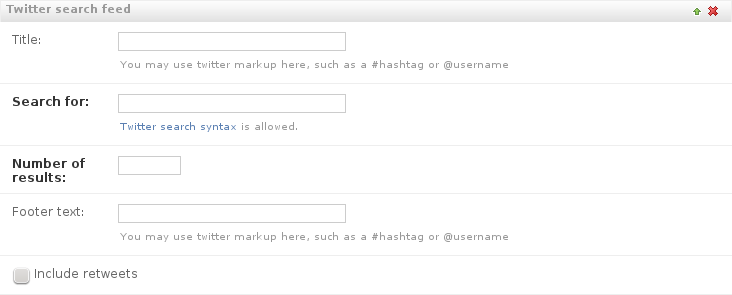
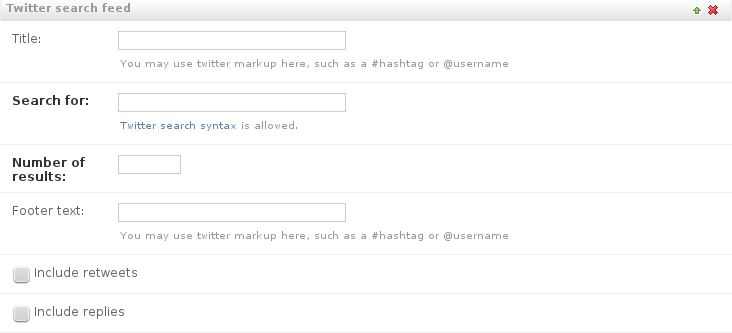
Twitterfeed: add "include replies" checkbox.

diff --git a/fluent_contents/plugins/twitterfeed/templates/plugins/twitterfeed/recent_entries.html b/fluent_contents/plugins/twitterfeed/templates/plugins/twitterfeed/recent_entries.html
@@ -2,6 +2,7 @@
 
 {% block jsoptions %}
       username: '{{ instance.twitter_user }}',
-      {% if not instance.include_retweets %}retweets: false,
-      fetch: Math.max(10, {{ instance.amount }} * 2),{% endif %}
+      {% if not instance.include_retweets %}retweets: false,{% endif %}
+      {% if not instance.include_replies %}filter: function(t){ return t.tweet_raw_text.substring(0,1) != '@'; },{% endif %}
+      {% if not instance.include_retweets or not include_replies %}fetch: Math.max(20, {{ instance.amount }} * 4),{% endif %}
 {% endblock %}

diff --git a/fluent_contents/plugins/twitterfeed/templates/plugins/twitterfeed/search.html b/fluent_contents/plugins/twitterfeed/templates/plugins/twitterfeed/search.html
@@ -2,4 +2,6 @@
 
 {% block jsoptions %}
       query: '{{ instance.query }}{% if not instance.include_retweets %}+exclude:retweets{% endif %}',
+      {% if not instance.include_replies %}filter: function(t){ return t.tweet_raw_text.substring(0,1) != '@'; },{% endif %}
+      {% if not instance.include_retweets or not include_replies %}fetch: Math.max(20, {{ instance.amount }} * 4),{% endif %}
 {% endblock %}

diff --git a/fluent_contents/plugins/twitterfeed/models.py b/fluent_contents/plugins/twitterfeed/models.py
@@ -14,6 +14,7 @@ class TwitterRecentEntriesItem(ContentItem):
 
     footer_text = models.CharField(_('Footer text'), max_length=200, blank=True, help_text=_('You may use twitter markup here, such as a #hashtag or @username.'))
     include_retweets = models.BooleanField(_("Include retweets"))
+    include_replies = models.BooleanField(_("Include replies"))
 
     def __unicode__(self):
         return self.title or self.twitter_user
@@ -34,6 +35,7 @@ class TwitterSearchItem(ContentItem):
 
     footer_text = models.CharField(_('Footer text'), max_length=200, blank=True, help_text=_('You may use twitter markup here, such as a #hashtag or @username'))
     include_retweets = models.BooleanField(_("Include retweets"))
+    include_replies = models.BooleanField(_("Include replies"))
 
     def __unicode__(self):
         return self.title or self.query

diff --git a/docs/plugins/twitterfeed.rst b/docs/plugins/twitterfeed.rst
@@ -7,13 +7,13 @@ The `twitterfeed` plugin provides two widgets to display at the web site:
 
   .. image:: /images/plugins/twitterfeed-user-admin.*
      :width: 732px
-     :height: 272px
+     :height: 310px
 
 |
 
   .. image:: /images/plugins/twitterfeed-search-admin.*
      :width: 732px
-     :height: 295px
+     :height: 333px
 
 The twitterfeed is fetched client-side by JavaScript, and can be styled using CSS.
 
